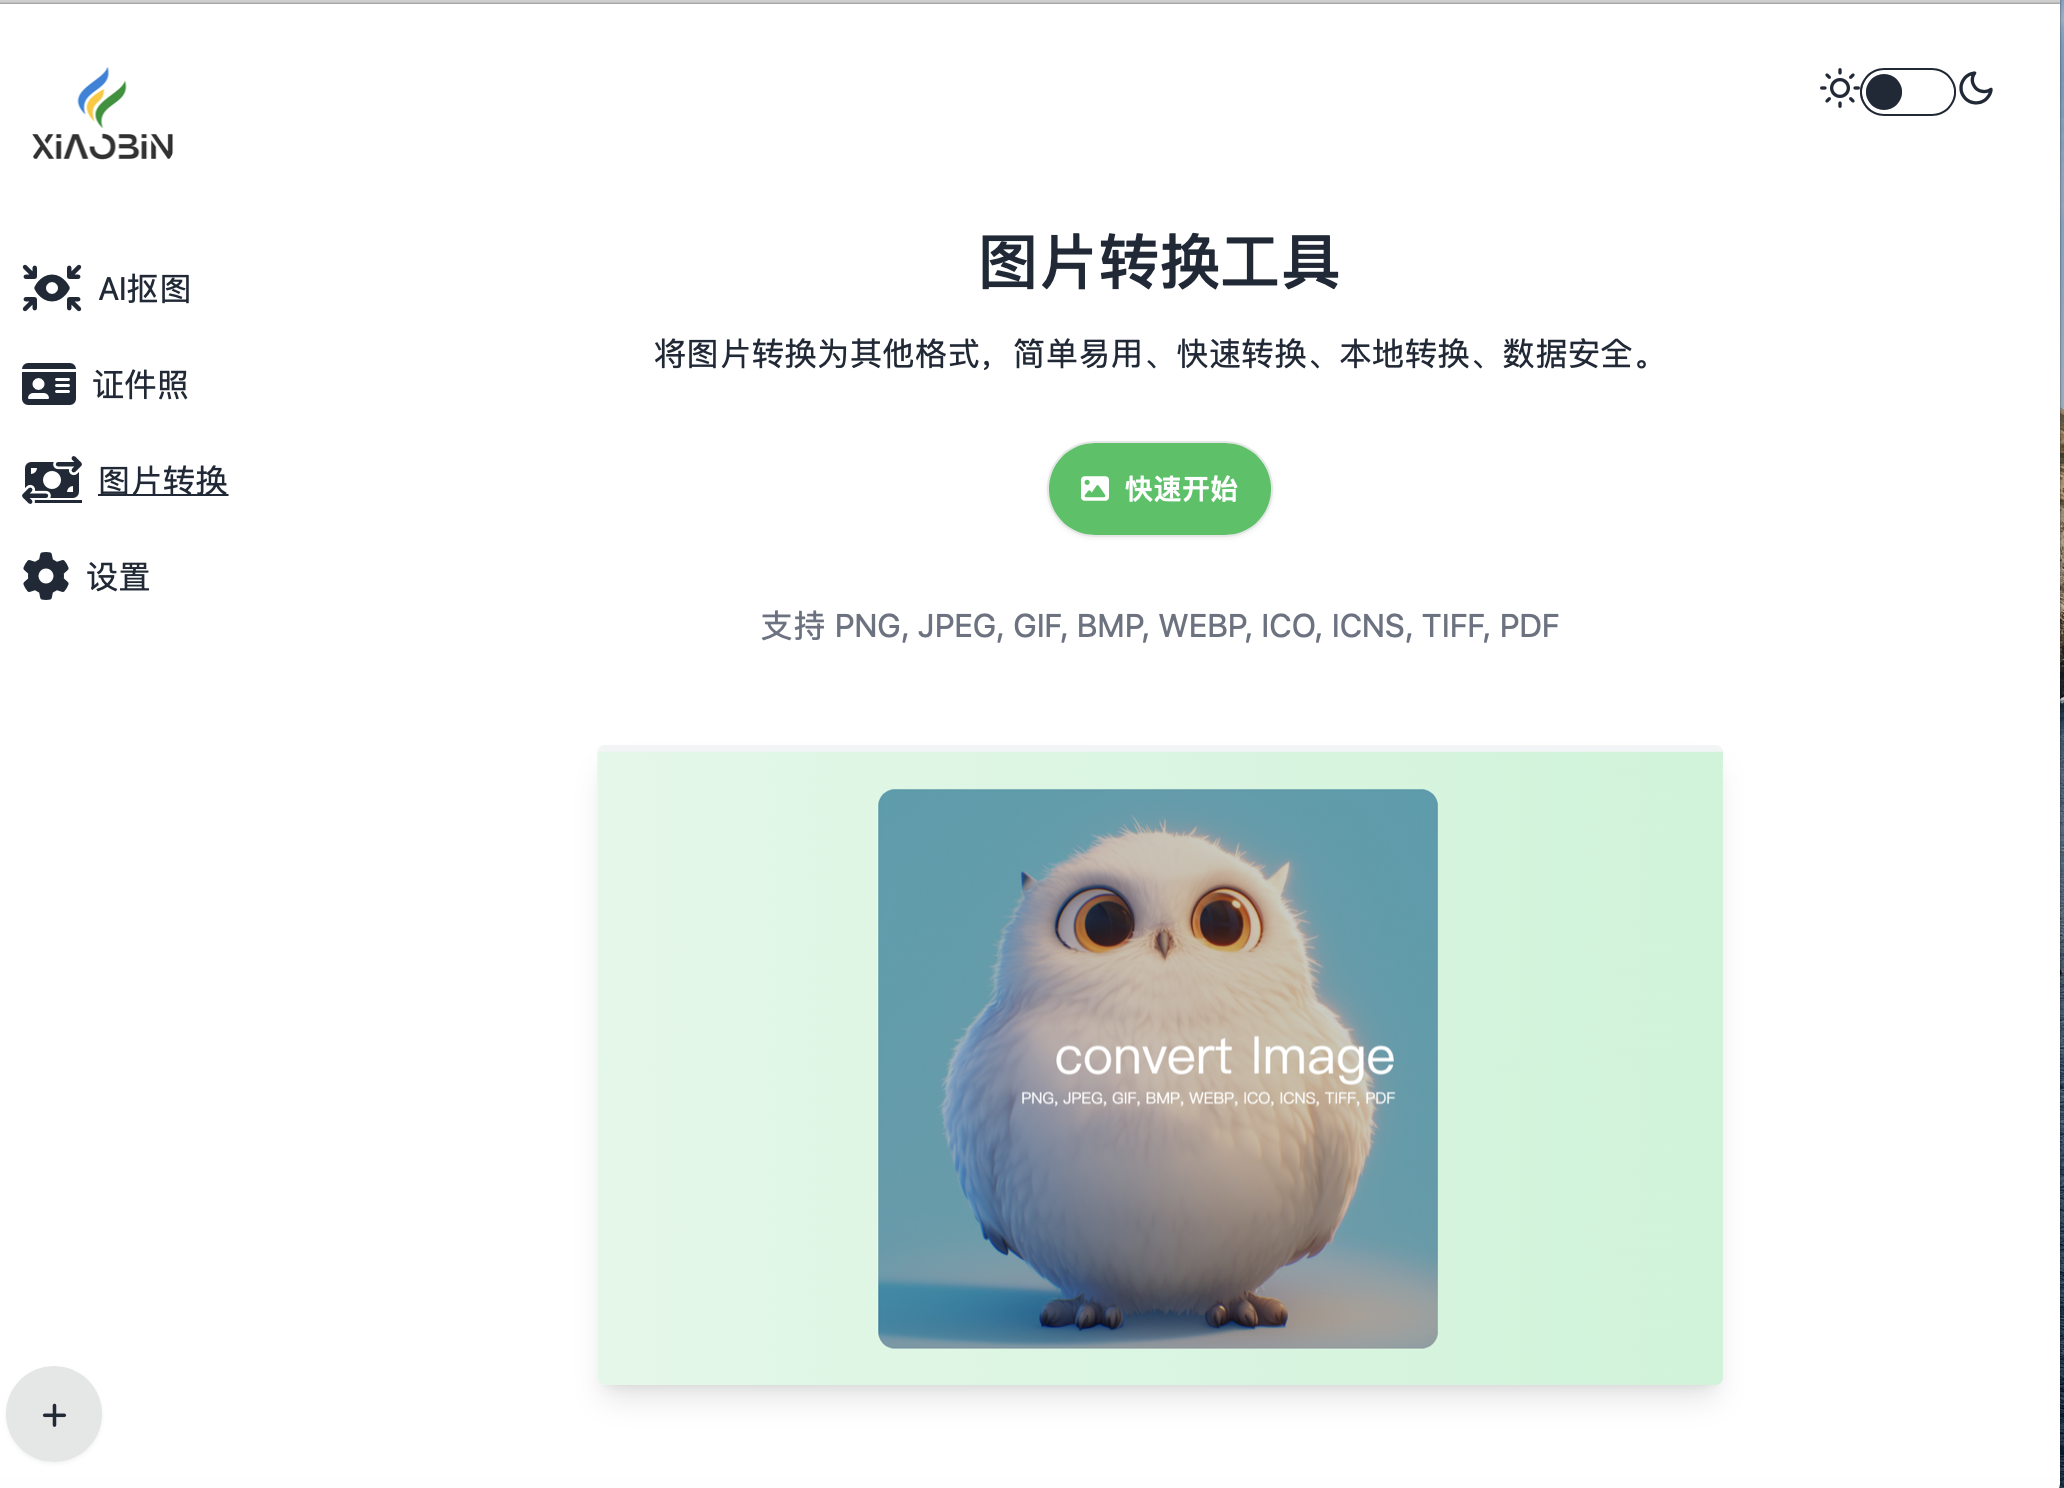
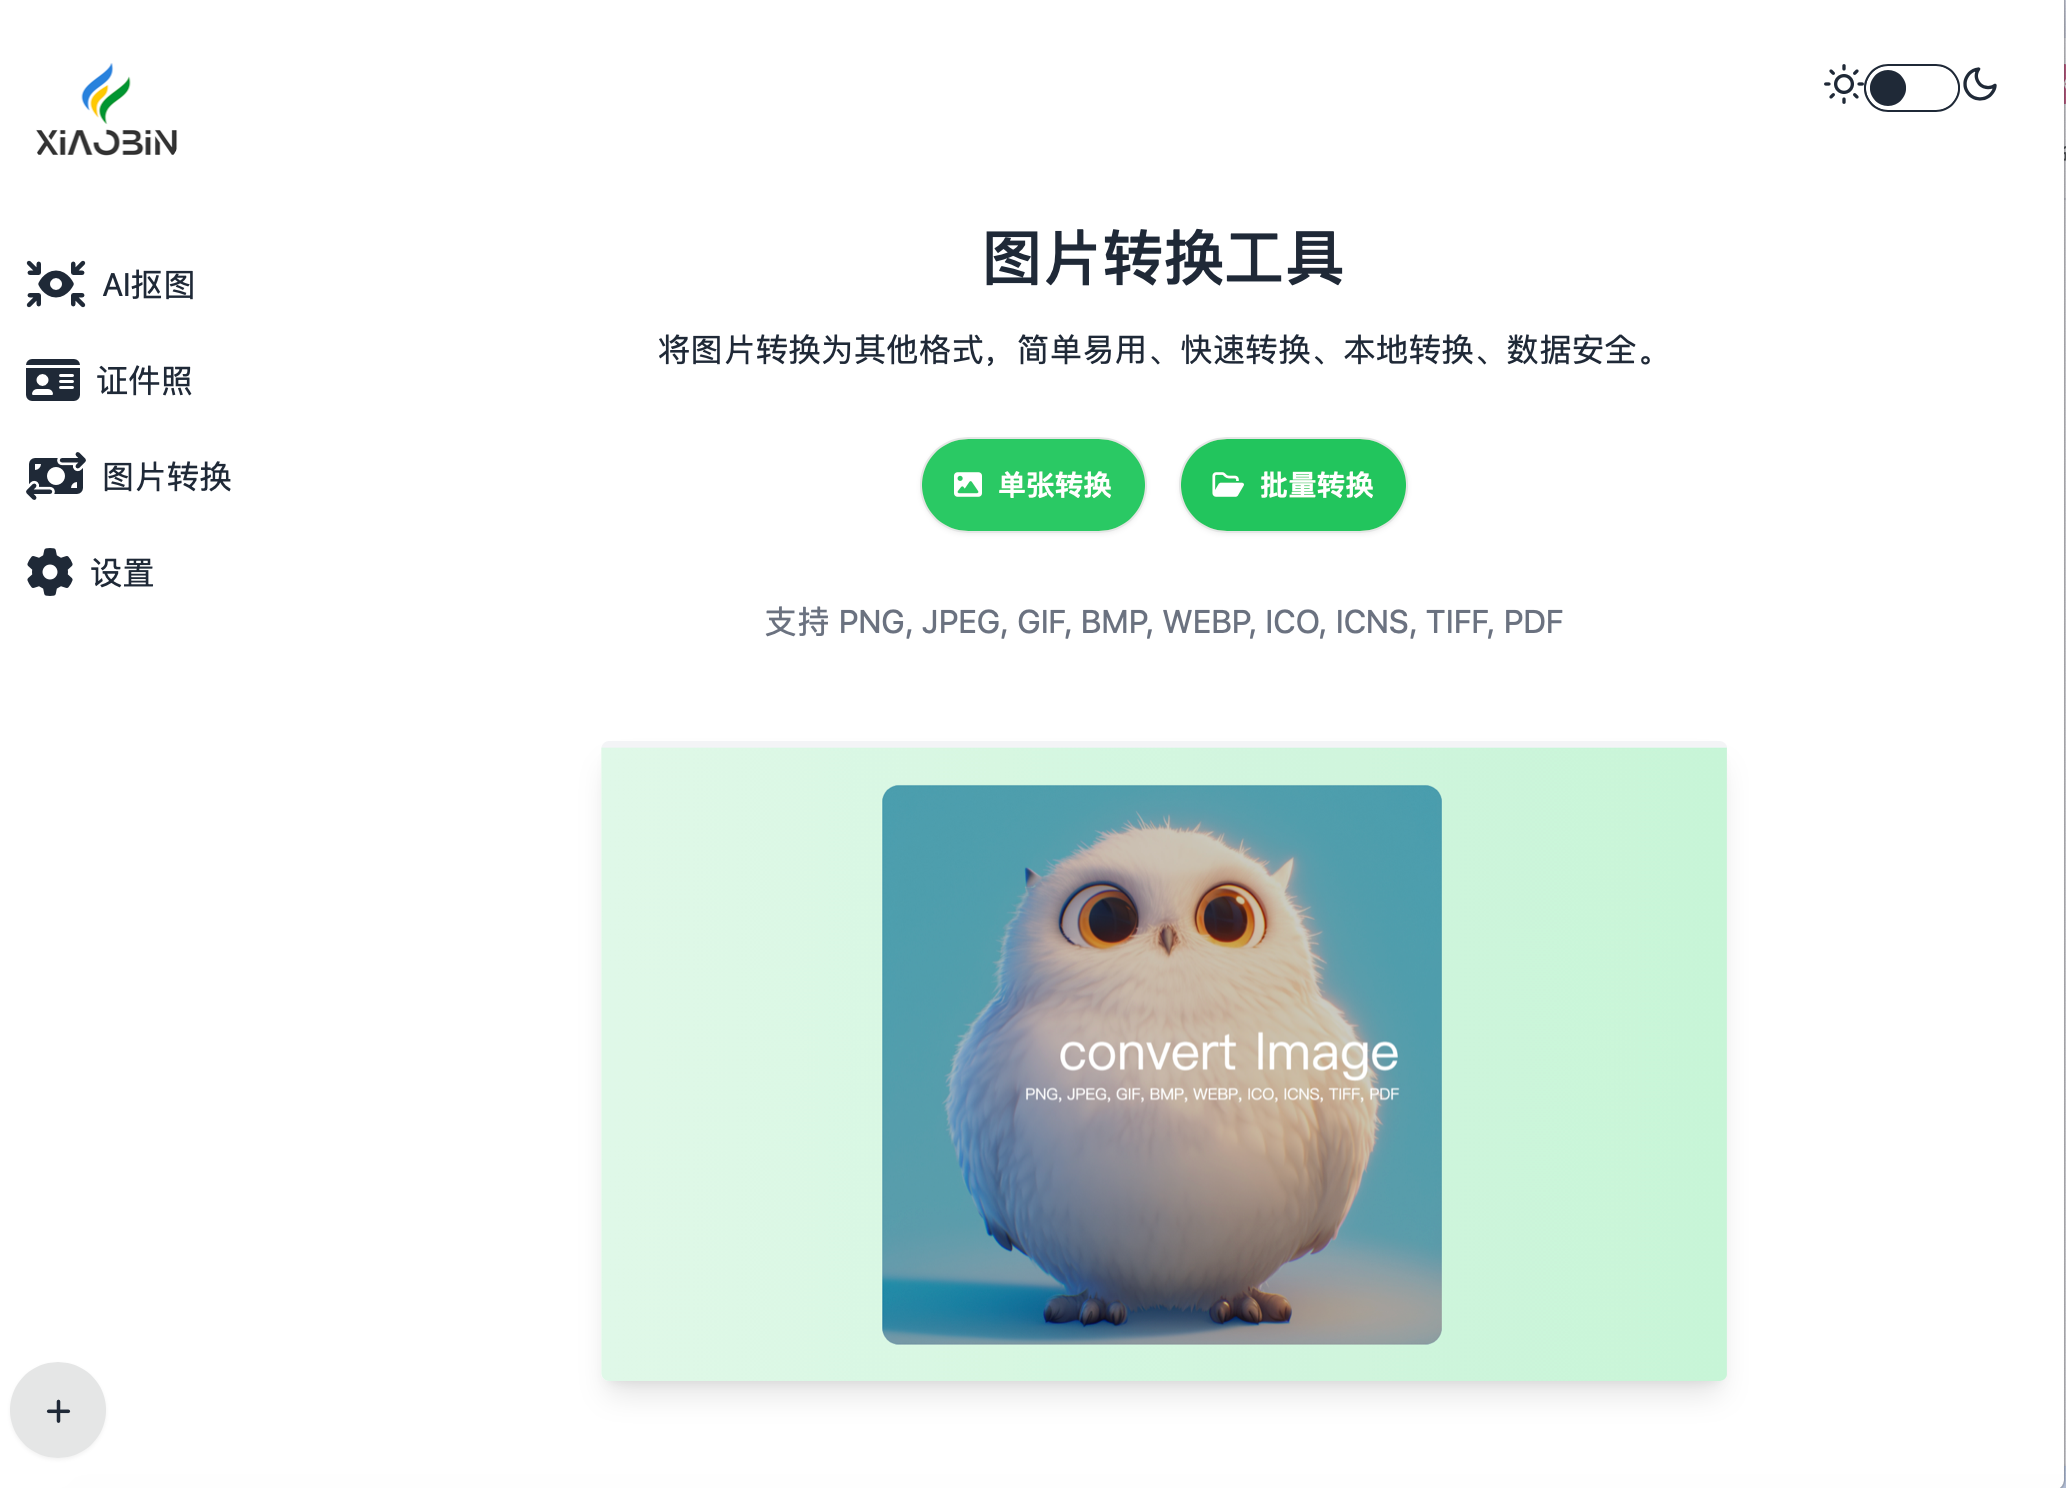
feat:新增窗口置顶和取消

diff --git a/frontend/src/views/Layout/components/Header.vue b/frontend/src/views/Layout/components/Header.vue
@@ -14,19 +14,36 @@
             </svg>
         </label>
 
+        <div class="tooltip tooltip-bottom ml-4 text-xl	" :data-tip="!windowPinned ? t('basicHeader.pin_window') : t('basicHeader.unpin_window')">
+            <i v-if="!windowPinned" class="fa-solid fa-arrow-up" @click="toggleWindowPin"></i>
+
+            <i v-else class="fa-solid fa-arrow-down" @click="toggleWindowPin"></i>
+        </div>
+
     </header>
 </template>
 
 <script setup>
 import { ref, onMounted } from 'vue'
 import { settingAPI } from '@/api/user';
+import { useI18n } from 'vue-i18n';
+const { t } = useI18n();
 
 const isDarkTheme = ref(false)
 
 const theme = ref('light')
 
+const windowPinned = ref(false)
+const toggleWindowPin = async () => {
+  windowPinned.value = !windowPinned.value
+  const resp = await settingAPI('update_window_setting', { pin_window: windowPinned.value })
+  if (resp.code !== 200) {
+    windowPinned.value = !windowPinned.value
+  }
+}
+
 // 获取设置信息
-const getTheme = async () => {
+const getSettingInfo = async () => {
     const res = await settingAPI('get', '')
     theme.value = res.data.theme
     if (res.data.theme === 'dark') {
@@ -34,6 +51,7 @@ const getTheme = async () => {
     } else {
         isDarkTheme.value = false
     }
+    windowPinned.value = res.data.window.on_top
 }
 
 // 保存设置
@@ -57,7 +75,7 @@ const toggleTheme = async () => {
 }
 
 onMounted(async () => {
-    await getTheme()
+    await getSettingInfo()
     if (theme.value === 'dark') {
         isDarkTheme.value = true
         document.documentElement.classList.add('dark')

diff --git a/frontend/src/locales/en-US.js b/frontend/src/locales/en-US.js
@@ -15,6 +15,11 @@ export default {
     processing: 'Progress',
 
   },
+  basicHeader: {
+    'pin_window': 'Keep Window Always on Top',
+    'unpin_window': 'Unpin Window',
+
+  },
   menu: {
     setting: 'Settings',
     ai_matting_name: 'AI Matting',
@@ -99,7 +104,7 @@ export default {
     mult_convert_image: {
       select_folder_btn: 'Select Folder',
       start_convert_btn: 'Start Conversion',
-      finish: 'Finish Processing', 
+      finish: 'Finish Processing',
     }
   }
 };

diff --git a/frontend/src/locales/zh-CN.js b/frontend/src/locales/zh-CN.js
@@ -15,6 +15,10 @@ export default {
     processing: '进度',
 
   },
+  basicHeader: {
+    'pin_window': '窗口始终置顶',
+    'unpin_window': '取消窗口置顶',
+  },
   menu: {
     setting: '设置',
     ai_matting_name: 'AI抠图',

diff --git a/backend/api/user_api.py b/backend/api/user_api.py
@@ -2,6 +2,8 @@ from utilities.response import res200, res400, res500
 from conf.config import config
 from typing import Union
 import json
+import webview
+import time
 
 
 class SettingAPI:
@@ -15,3 +17,12 @@ class SettingAPI:
             if key in config:
                 config.save(key, value)
         return res200(dict(config))
+
+    def update_window_setting(self, payload):
+        window = webview.windows[0]
+        time.sleep(0.1)  # If we don't sleep, the window will get frozen. Have no idea.
+        pin_window = payload.get("pin_window")
+        if pin_window is not None:
+            window.on_top = pin_window
+            config.save("window.on_top", pin_window)
+        return res200()

diff --git a/backend/conf/setting.py b/backend/conf/setting.py
@@ -23,7 +23,7 @@ class Settings(BaseSettings):
 
     BASE_DIR: Path = Field(default=BASE_DIR, description="项目基础路径")
 
-    VERSION: str = Field(default="0.1.2", description="版本号")
+    VERSION: str = Field(default="0.1.3", description="版本号")
     # 日志
     LOG: dict = {"max_log_size": "20MB", "backup_count": 20}
 

diff --git a/README.md b/README.md
@@ -10,7 +10,7 @@
 - 支持单张抠图和批量抠图
 - 支持拖拽和粘贴
 - AI证件照抠图功能
-- 支持图片格式转换
+- 支持图片格式转换、批量转换
 - 语言支持中文和英文
 - 支持暗色和亮色主题
 - 项目开源，可供学习和参考
